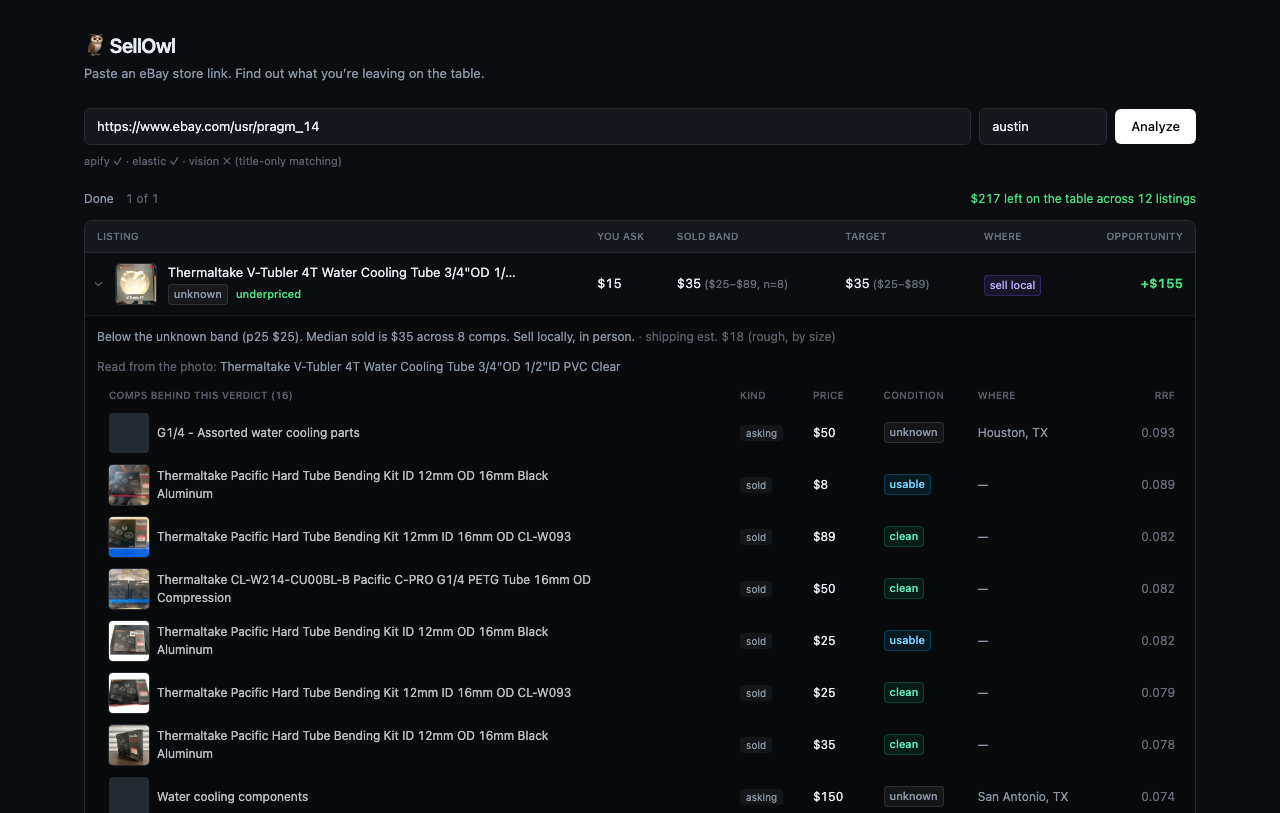
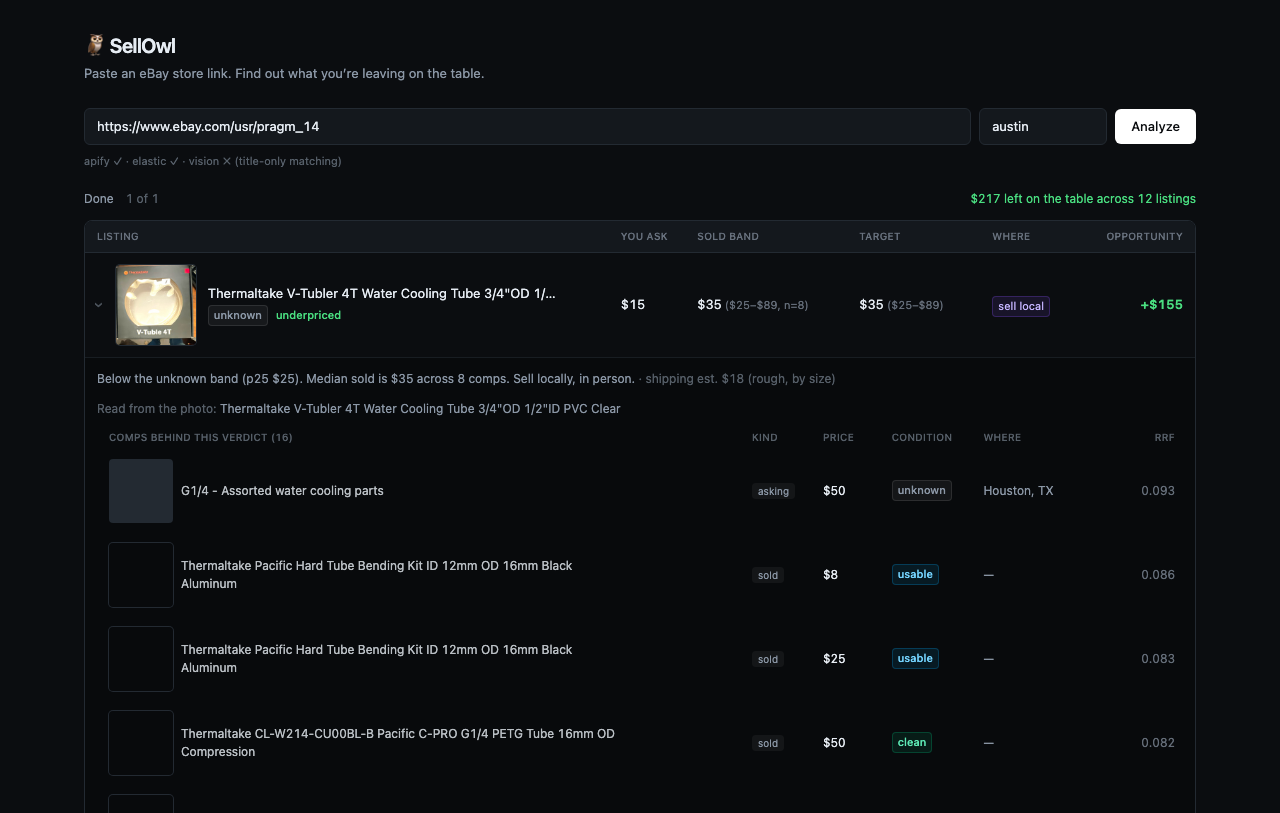
Enlarge listing and comp thumbnails, refresh README screenshot
Main listing photo was the same 40px size as inline comp thumbnails
and got lost next to the title. Bumped it to 80px, comp thumbnails to
64px, and widened row padding so nothing clips.

diff --git a/frontend/src/components/ItemRow.tsx b/frontend/src/components/ItemRow.tsx
@@ -6,9 +6,9 @@ import { Band, ConditionChip, Opportunity, Thumb, VenueTag, VerdictChip } from "
 function CompRow({ comp }: { comp: Comp }) {
   return (
     <tr className="text-[12px]">
-      <td className="py-1.5 pl-3 pr-2">
+      <td className="py-2.5 pl-3 pr-2">
         <div className="flex items-center gap-2">
-          <Thumb src={comp.photo_url} alt="" />
+          <Thumb src={comp.photo_url} alt="" size="lg" />
           <a
             href={comp.url || undefined}
             target="_blank"
@@ -19,19 +19,19 @@ function CompRow({ comp }: { comp: Comp }) {
           </a>
         </div>
       </td>
-      <td className="px-2 py-1.5">
+      <td className="px-2 py-2.5">
         <span className="rounded bg-white/5 px-1.5 py-0.5 text-[10px] text-muted">
           {comp.venue === "ebay_sold" ? "sold" : "asking"}
         </span>
       </td>
-      <td className="px-2 py-1.5">{money(comp.price)}</td>
-      <td className="px-2 py-1.5">
+      <td className="px-2 py-2.5">{money(comp.price)}</td>
+      <td className="px-2 py-2.5">
         <ConditionChip condition={comp.condition} evidence={comp.condition_evidence} />
       </td>
-      <td className="px-2 py-1.5 text-muted">
+      <td className="px-2 py-2.5 text-muted">
         {comp.city ? `${comp.city}${comp.state ? `, ${comp.state}` : ""}` : "—"}
       </td>
-      <td className="px-2 py-1.5 text-right text-muted/70">{comp.score.toFixed(3)}</td>
+      <td className="px-2 py-2.5 text-right text-muted/70">{comp.score.toFixed(3)}</td>
     </tr>
   );
 }
@@ -48,7 +48,7 @@ export function ItemRow({ item, index }: { item: Item; index: number }) {
         style={{ animationDelay: `${Math.min(index, 12) * 25}ms` }}
         onClick={() => setOpen((v) => !v)}
       >
-        <td className="px-3 py-2.5">
+        <td className="px-3 py-3">
           <div className="flex items-center gap-3">
             <span
               className={`text-muted/50 transition-transform ${open ? "rotate-90" : ""}`}
@@ -56,7 +56,7 @@ export function ItemRow({ item, index }: { item: Item; index: number }) {
             >
               ›
             </span>
-            <Thumb src={item.photo_url} alt="" />
+            <Thumb src={item.photo_url} alt="" size="xl" />
             <div className="min-w-0">
               <div className="truncate max-w-[22rem] text-[13px]">{item.title}</div>
               <div className="flex items-center gap-2 pt-0.5">
@@ -69,11 +69,11 @@ export function ItemRow({ item, index }: { item: Item; index: number }) {
             </div>
           </div>
         </td>
-        <td className="px-3 py-2.5 text-[13px]">{money(item.ask_price)}</td>
-        <td className="px-3 py-2.5 text-[13px]">
+        <td className="px-3 py-3 text-[13px]">{money(item.ask_price)}</td>
+        <td className="px-3 py-3 text-[13px]">
           <Band band={verdict?.sold_band ?? null} />
         </td>
-        <td className="px-3 py-2.5 text-[13px]">
+        <td className="px-3 py-3 text-[13px]">
           {verdict?.target ? (
             <span>
               {money(verdict.target)}
@@ -86,10 +86,10 @@ export function ItemRow({ item, index }: { item: Item; index: number }) {
             <span className="text-muted/50">—</span>
           )}
         </td>
-        <td className="px-3 py-2.5">
+        <td className="px-3 py-3">
           <VenueTag venue={verdict?.recommended_venue ?? null} />
         </td>
-        <td className="px-3 py-2.5 text-right text-[13px]">
+        <td className="px-3 py-3 text-right text-[13px]">
           <Opportunity verdict={verdict} />
         </td>
       </tr>

diff --git a/frontend/src/components/Bits.tsx b/frontend/src/components/Bits.tsx
@@ -83,16 +83,31 @@ export function VenueTag({ venue }: { venue: string | null }) {
   );
 }
 
-export function Thumb({ src, alt }: { src: string; alt: string }) {
+const THUMB_SIZE = {
+  sm: "h-10 w-10",
+  lg: "h-16 w-16",
+  xl: "h-20 w-20",
+} as const;
+
+export function Thumb({
+  src,
+  alt,
+  size = "sm",
+}: {
+  src: string;
+  alt: string;
+  size?: keyof typeof THUMB_SIZE;
+}) {
+  const dims = THUMB_SIZE[size];
   if (!src) {
-    return <div className="h-10 w-10 shrink-0 rounded bg-line" aria-hidden />;
+    return <div className={`${dims} shrink-0 rounded bg-line`} aria-hidden />;
   }
   return (
     <img
       src={src}
       alt={alt}
       loading="lazy"
-      className="h-10 w-10 shrink-0 rounded object-cover ring-1 ring-line"
+      className={`${dims} shrink-0 rounded object-cover ring-1 ring-line`}
       onError={(e) => {
         (e.currentTarget as HTMLImageElement).style.visibility = "hidden";
       }}
@@ -104,14 +119,14 @@ export function Thumb({ src, alt }: { src: string; alt: string }) {
 export function SkeletonRow() {
   return (
     <tr className="border-b border-line/60">
-      <td className="px-3 py-2.5">
+      <td className="px-3 py-3">
         <div className="flex items-center gap-3">
-          <div className="skeleton h-10 w-10 rounded" />
+          <div className="skeleton h-20 w-20 rounded" />
           <div className="skeleton h-3 w-48 rounded" />
         </div>
       </td>
       {Array.from({ length: 5 }).map((_, i) => (
-        <td key={i} className="px-3 py-2.5">
+        <td key={i} className="px-3 py-3">
           <div className="skeleton h-3 w-16 rounded" />
         </td>
       ))}
